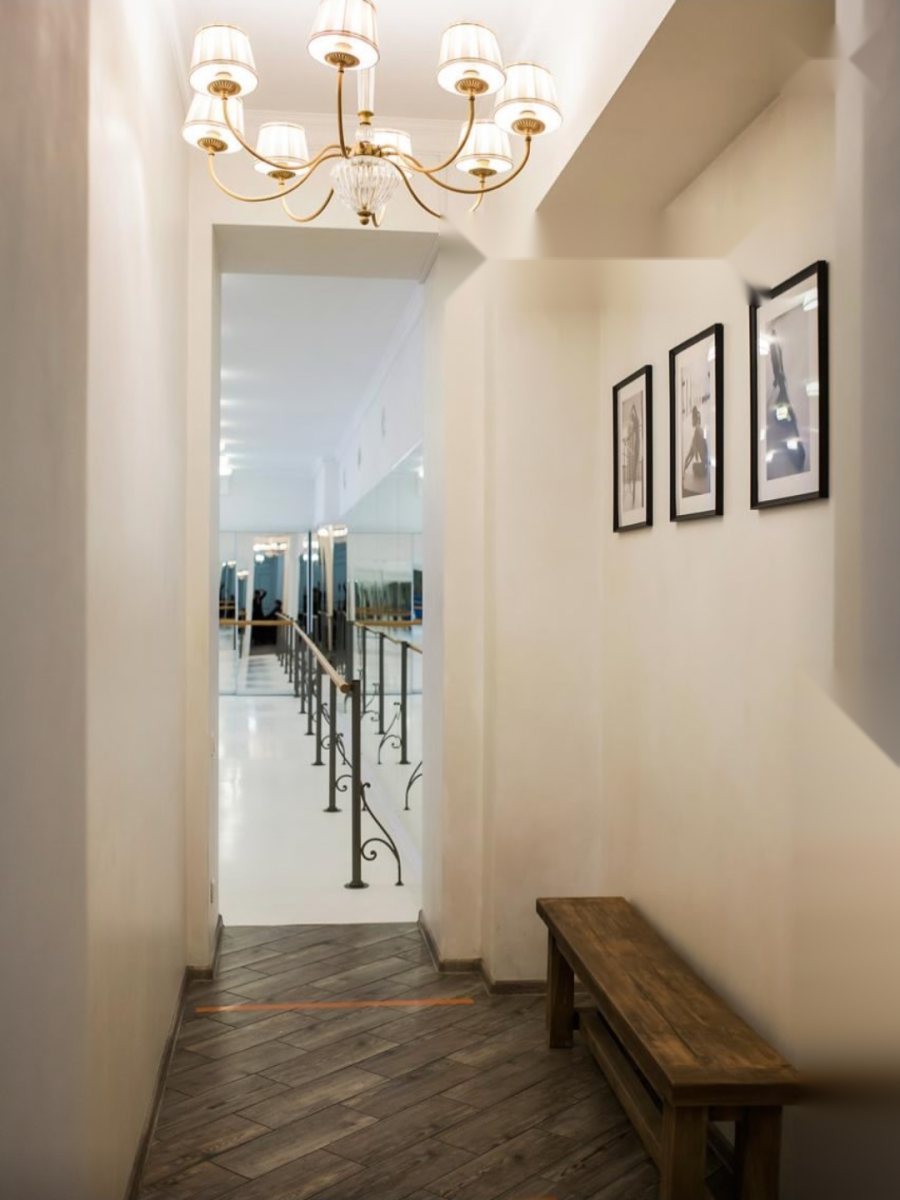
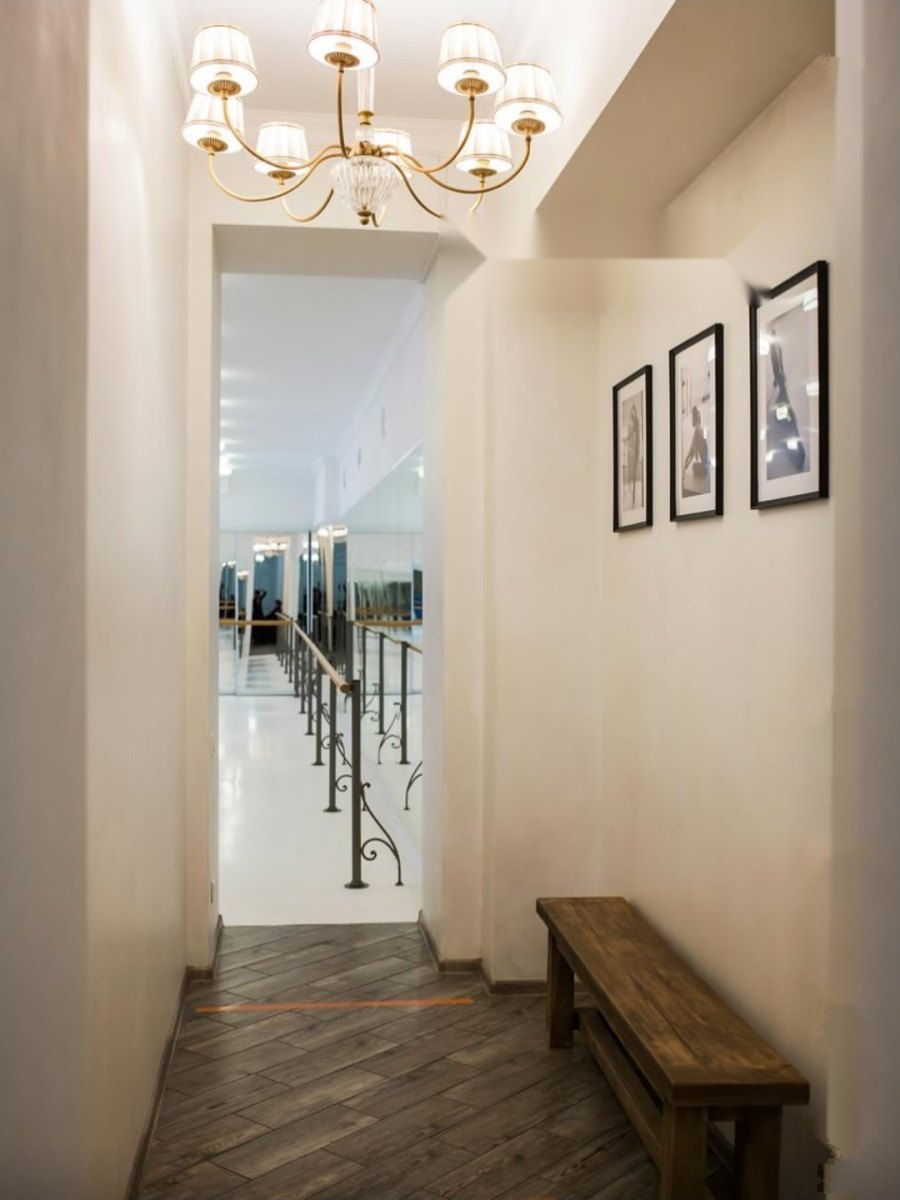
Better studio photos, drop the first-class block, smooth language switch
Photos. The right-hand strip of every picture had been repaired by
smearing a 120px-wide column, which left the sofa, the radiator, the
cabinet and the staircase handrail blurred. Only the icons themselves
and the counter are painted out now, and from patches of the surrounding
picture instead of by smoothing, so the radiator has its pipes again, the
sofa its folds and the handrail its line. 92–183 KB each.

«Что взять на первый урок» is removed whole: the section, its styles,
its entry in the reveal table and its English line. Nothing was left to
close the gap — the interior block now runs straight into «Свяжитесь с
нами».

Language switch. It used to reload the page with a flash of the old
text or a blank frame between. The page is now veiled in the site's own
background for 0.3 s, reloads already veiled, and the veil lifts over
0.5 s once the new language is in place; measured frame by frame, no
frame shows the new language uncovered. The veil is a pseudo-element on
the html element, not the body (an animation with fill-mode on the body
moves the fixed header), and a timer lifts it after 3 s in case the
script never runs.

Claude-Session: https://claude.ai/code/session_01XtSfA2PNjy1u6bukLUXjE1

Changed region(s): [[0.9022, 0.5858, 1.0, 1.0], [0.9022, 0.0308, 0.9644, 0.0617]]

diff --git a/i18n.js b/i18n.js
@@ -16,6 +16,7 @@
     'use strict';
 
     var KEY = 'isadora-lang';
+    var SWAP = 'isadora-lang-swap';
 
     var DICT = {
         /* ----- отзывы — говорим так, как говорил бы человек по-английски ----- */
@@ -73,7 +74,6 @@
         'Классика, современный танец и группы для детей': "Classical, contemporary and children’s groups",
         'Абонементы, разовые занятия и аренда залов': "Passes, drop-in classes and hall rental",
         'Подробнее': "See more",
-        'Что взять на первый урок': "What to bring to your first class",
         'События в Айседоре': "What’s on at Isadora",
         'Готовы начать свой путь в мире танца?': "Ready to start dancing?",
         'Свяжитесь с нами': "Get in touch",
@@ -463,7 +463,12 @@
         } catch (e) {}
 
         if (saved) {
-            location.reload();
+            /* Страница затягивается фоном сайта, потом перезагружается и так
+               же плавно открывается уже на другом языке: без этого язык менялся
+               рывком, с миганием белого экрана. */
+            try { sessionStorage.setItem(SWAP, '1'); } catch (e) {}
+            document.documentElement.classList.add('lang-swap');
+            setTimeout(function () { location.reload(); }, 320);
             return;
         }
 
@@ -493,6 +498,21 @@
        словам по-русски. */
     if (lang === 'en') apply();
     buttons();
+
+    /* Страницу открыл переключатель языка: она закрыта фоном (см. <head>).
+       Когда всё загрузилось и перевод встал на место, фон плавно уходит. */
+    var swapped = false;
+    try { swapped = sessionStorage.getItem(SWAP) === '1'; } catch (e) {}
+    if (swapped) {
+        var reveal = function () {
+            setTimeout(function () {
+                document.documentElement.classList.remove('lang-swap');
+                try { sessionStorage.removeItem(SWAP); } catch (e) {}
+            }, 160);
+        };
+        if (document.readyState === 'complete') reveal();
+        else window.addEventListener('load', reveal);
+    }
 
     /* script.js собирает текст заявки сам — ему нужен доступ к словарю */
     window.isadoraI18n = { lang: lang, t: translate };

diff --git a/index.html b/index.html
@@ -8,8 +8,8 @@
     <link rel="preconnect" href="https://fonts.googleapis.com">
     <link rel="preconnect" href="https://fonts.gstatic.com" crossorigin>
     <link href="https://fonts.googleapis.com/css2?family=Jost:wght@300;400;500;600&family=Marck+Script&family=PT+Serif:ital,wght@0,400;0,700;1,400;1,700&family=Playfair+Display:wght@400;500;600;700;800&display=swap" rel="stylesheet">
-    <link rel="stylesheet" href="styles.css?v=101">
-    <script>document.documentElement.classList.add('js-anim');</script>
+    <link rel="stylesheet" href="styles.css?v=103">
+    <script>document.documentElement.classList.add('js-anim');try{if(sessionStorage.getItem('isadora-lang-swap')){document.documentElement.classList.add('lang-swap');setTimeout(function(){document.documentElement.classList.remove('lang-swap')},3000)}}catch(e){}</script>
 </head>
 <body>
     <nav class="navbar">
@@ -152,17 +152,6 @@
         </div>
     </section>
 
-    <section class="first-class-section">
-        <div class="container">
-            <h2 class="section-title fade-in">Что взять на первый урок</h2>
-            <div class="first-class-grid">
-                <div class="first-class-card"></div>
-                <div class="first-class-card"></div>
-                <div class="first-class-card"></div>
-            </div>
-        </div>
-    </section>
-
     <section class="contact">
         <div class="container">
             <h2 class="section-title fade-in">Свяжитесь с нами</h2>
@@ -284,7 +273,7 @@
         </svg>
     </a>
 
-    <script src="i18n.js?v=101"></script>
-    <script src="script.js?v=101"></script>
+    <script src="i18n.js?v=103"></script>
+    <script src="script.js?v=103"></script>
 </body>
 </html>

diff --git a/styles.css b/styles.css
@@ -888,26 +888,6 @@ body.menu-open {
     background: var(--white);
 }
 
-/* «Что взять на первый урок»: раздел заведён, наполнение ждёт владельца */
-.first-class-section {
-    padding: 100px 0;
-    background: linear-gradient(175deg, #f5eee2 0%, var(--white) 45%, #e0d4c2 100%);
-}
-
-.first-class-grid {
-    display: grid;
-    grid-template-columns: repeat(auto-fit, minmax(220px, 1fr));
-    gap: 20px;
-    margin-top: 36px;
-}
-
-.first-class-card {
-    min-height: 150px;
-    border: 1px solid var(--sand-line);
-    border-radius: var(--r-box);
-    background: var(--card);
-}
-
 .interior-card {
     flex: 0 0 clamp(240px, 62vw, 360px);
     aspect-ratio: 2 / 3;
@@ -3188,4 +3168,24 @@ html.js-anim .hero-lead.in span {
         grid-template-columns: repeat(2, 1fr);
         gap: 12px;
     }
+}
+
+/* Смена языка: страница затягивается фоном сайта и так же плавно открывается.
+   Вешается на html, а не на body: у body любая анимация с fill-mode ломает
+   положение фиксированной шапки. */
+html::after {
+    content: '';
+    position: fixed;
+    inset: 0;
+    z-index: 5000;
+    background: var(--white);
+    opacity: 0;
+    pointer-events: none;
+    transition: opacity 0.55s ease;
+}
+
+html.lang-swap::after {
+    opacity: 1;
+    pointer-events: auto;
+    transition-duration: 0.3s;
 }

diff --git a/classes.html b/classes.html
@@ -8,8 +8,8 @@
     <link rel="preconnect" href="https://fonts.googleapis.com">
     <link rel="preconnect" href="https://fonts.gstatic.com" crossorigin>
     <link href="https://fonts.googleapis.com/css2?family=Jost:wght@300;400;500;600&family=Marck+Script&family=PT+Serif:ital,wght@0,400;0,700;1,400;1,700&family=Playfair+Display:wght@400;500;600;700;800&display=swap" rel="stylesheet">
-    <link rel="stylesheet" href="styles.css?v=101">
-    <script>document.documentElement.classList.add('js-anim');</script>
+    <link rel="stylesheet" href="styles.css?v=103">
+    <script>document.documentElement.classList.add('js-anim');try{if(sessionStorage.getItem('isadora-lang-swap')){document.documentElement.classList.add('lang-swap');setTimeout(function(){document.documentElement.classList.remove('lang-swap')},3000)}}catch(e){}</script>
 </head>
 <body class="page-prices">
     <nav class="navbar">
@@ -202,7 +202,7 @@
         </div>
     </section>
 
-    <script src="i18n.js?v=101"></script>
-    <script src="script.js?v=101"></script>
+    <script src="i18n.js?v=103"></script>
+    <script src="script.js?v=103"></script>
 </body>
 </html>

diff --git a/about.html b/about.html
@@ -8,8 +8,8 @@
     <link rel="preconnect" href="https://fonts.googleapis.com">
     <link rel="preconnect" href="https://fonts.gstatic.com" crossorigin>
     <link href="https://fonts.googleapis.com/css2?family=Jost:wght@300;400;500;600&family=Marck+Script&family=PT+Serif:ital,wght@0,400;0,700;1,400;1,700&family=Playfair+Display:wght@400;500;600;700;800&display=swap" rel="stylesheet">
-    <link rel="stylesheet" href="styles.css?v=101">
-    <script>document.documentElement.classList.add('js-anim');</script>
+    <link rel="stylesheet" href="styles.css?v=103">
+    <script>document.documentElement.classList.add('js-anim');try{if(sessionStorage.getItem('isadora-lang-swap')){document.documentElement.classList.add('lang-swap');setTimeout(function(){document.documentElement.classList.remove('lang-swap')},3000)}}catch(e){}</script>
 </head>
 <body>
     <nav class="navbar">
@@ -126,7 +126,7 @@
         </div>
     </section>
 
-    <script src="i18n.js?v=101"></script>
-    <script src="script.js?v=101"></script>
+    <script src="i18n.js?v=103"></script>
+    <script src="script.js?v=103"></script>
 </body>
 </html>

diff --git a/booking.html b/booking.html
@@ -8,8 +8,8 @@
     <link rel="preconnect" href="https://fonts.googleapis.com">
     <link rel="preconnect" href="https://fonts.gstatic.com" crossorigin>
     <link href="https://fonts.googleapis.com/css2?family=Jost:wght@300;400;500;600&family=Marck+Script&family=PT+Serif:ital,wght@0,400;0,700;1,400;1,700&family=Playfair+Display:wght@400;500;600;700;800&display=swap" rel="stylesheet">
-    <link rel="stylesheet" href="styles.css?v=101">
-    <script>document.documentElement.classList.add('js-anim');</script>
+    <link rel="stylesheet" href="styles.css?v=103">
+    <script>document.documentElement.classList.add('js-anim');try{if(sessionStorage.getItem('isadora-lang-swap')){document.documentElement.classList.add('lang-swap');setTimeout(function(){document.documentElement.classList.remove('lang-swap')},3000)}}catch(e){}</script>
 </head>
 <body>
     <nav class="navbar">
@@ -101,7 +101,7 @@
         </div>
     </section>
 
-    <script src="i18n.js?v=101"></script>
-    <script src="script.js?v=101"></script>
+    <script src="i18n.js?v=103"></script>
+    <script src="script.js?v=103"></script>
 </body>
 </html>

diff --git a/directions.html b/directions.html
@@ -8,8 +8,8 @@
     <link rel="preconnect" href="https://fonts.googleapis.com">
     <link rel="preconnect" href="https://fonts.gstatic.com" crossorigin>
     <link href="https://fonts.googleapis.com/css2?family=Jost:wght@300;400;500;600&family=Marck+Script&family=PT+Serif:ital,wght@0,400;0,700;1,400;1,700&family=Playfair+Display:wght@400;500;600;700;800&display=swap" rel="stylesheet">
-    <link rel="stylesheet" href="styles.css?v=101">
-    <script>document.documentElement.classList.add('js-anim');</script>
+    <link rel="stylesheet" href="styles.css?v=103">
+    <script>document.documentElement.classList.add('js-anim');try{if(sessionStorage.getItem('isadora-lang-swap')){document.documentElement.classList.add('lang-swap');setTimeout(function(){document.documentElement.classList.remove('lang-swap')},3000)}}catch(e){}</script>
 </head>
 <body>
     <nav class="navbar">
@@ -117,7 +117,7 @@
         </div>
     </section>
 
-    <script src="i18n.js?v=101"></script>
-    <script src="script.js?v=101"></script>
+    <script src="i18n.js?v=103"></script>
+    <script src="script.js?v=103"></script>
 </body>
 </html>

diff --git a/events.html b/events.html
@@ -8,8 +8,8 @@
     <link rel="preconnect" href="https://fonts.googleapis.com">
     <link rel="preconnect" href="https://fonts.gstatic.com" crossorigin>
     <link href="https://fonts.googleapis.com/css2?family=Jost:wght@300;400;500;600&family=Marck+Script&family=PT+Serif:ital,wght@0,400;0,700;1,400;1,700&family=Playfair+Display:wght@400;500;600;700;800&display=swap" rel="stylesheet">
-    <link rel="stylesheet" href="styles.css?v=101">
-    <script>document.documentElement.classList.add('js-anim');</script>
+    <link rel="stylesheet" href="styles.css?v=103">
+    <script>document.documentElement.classList.add('js-anim');try{if(sessionStorage.getItem('isadora-lang-swap')){document.documentElement.classList.add('lang-swap');setTimeout(function(){document.documentElement.classList.remove('lang-swap')},3000)}}catch(e){}</script>
 </head>
 <body>
     <nav class="navbar">
@@ -100,7 +100,7 @@
         </div>
     </section>
 
-    <script src="i18n.js?v=101"></script>
-    <script src="script.js?v=101"></script>
+    <script src="i18n.js?v=103"></script>
+    <script src="script.js?v=103"></script>
 </body>
 </html>

diff --git a/interior.html b/interior.html
@@ -8,8 +8,8 @@
     <link rel="preconnect" href="https://fonts.googleapis.com">
     <link rel="preconnect" href="https://fonts.gstatic.com" crossorigin>
     <link href="https://fonts.googleapis.com/css2?family=Jost:wght@300;400;500;600&family=Marck+Script&family=PT+Serif:ital,wght@0,400;0,700;1,400;1,700&family=Playfair+Display:wght@400;500;600;700;800&display=swap" rel="stylesheet">
-    <link rel="stylesheet" href="styles.css?v=101">
-    <script>document.documentElement.classList.add('js-anim');</script>
+    <link rel="stylesheet" href="styles.css?v=103">
+    <script>document.documentElement.classList.add('js-anim');try{if(sessionStorage.getItem('isadora-lang-swap')){document.documentElement.classList.add('lang-swap');setTimeout(function(){document.documentElement.classList.remove('lang-swap')},3000)}}catch(e){}</script>
 </head>
 <body>
     <nav class="navbar">
@@ -122,7 +122,7 @@
         </div>
     </section>
 
-    <script src="i18n.js?v=101"></script>
-    <script src="script.js?v=101"></script>
+    <script src="i18n.js?v=103"></script>
+    <script src="script.js?v=103"></script>
 </body>
 </html>

diff --git a/contacts.html b/contacts.html
@@ -8,8 +8,8 @@
     <link rel="preconnect" href="https://fonts.googleapis.com">
     <link rel="preconnect" href="https://fonts.gstatic.com" crossorigin>
     <link href="https://fonts.googleapis.com/css2?family=Jost:wght@300;400;500;600&family=Marck+Script&family=PT+Serif:ital,wght@0,400;0,700;1,400;1,700&family=Playfair+Display:wght@400;500;600;700;800&display=swap" rel="stylesheet">
-    <link rel="stylesheet" href="styles.css?v=101">
-    <script>document.documentElement.classList.add('js-anim');</script>
+    <link rel="stylesheet" href="styles.css?v=103">
+    <script>document.documentElement.classList.add('js-anim');try{if(sessionStorage.getItem('isadora-lang-swap')){document.documentElement.classList.add('lang-swap');setTimeout(function(){document.documentElement.classList.remove('lang-swap')},3000)}}catch(e){}</script>
 </head>
 <body>
     <nav class="navbar">
@@ -93,7 +93,7 @@
         </div>
     </section>
 
-    <script src="i18n.js?v=101"></script>
-    <script src="script.js?v=101"></script>
+    <script src="i18n.js?v=103"></script>
+    <script src="script.js?v=103"></script>
 </body>
 </html>

diff --git a/memberships.html b/memberships.html
@@ -8,8 +8,8 @@
     <link rel="preconnect" href="https://fonts.googleapis.com">
     <link rel="preconnect" href="https://fonts.gstatic.com" crossorigin>
     <link href="https://fonts.googleapis.com/css2?family=Jost:wght@300;400;500;600&family=Marck+Script&family=PT+Serif:ital,wght@0,400;0,700;1,400;1,700&family=Playfair+Display:wght@400;500;600;700;800&display=swap" rel="stylesheet">
-    <link rel="stylesheet" href="styles.css?v=101">
-    <script>document.documentElement.classList.add('js-anim');</script>
+    <link rel="stylesheet" href="styles.css?v=103">
+    <script>document.documentElement.classList.add('js-anim');try{if(sessionStorage.getItem('isadora-lang-swap')){document.documentElement.classList.add('lang-swap');setTimeout(function(){document.documentElement.classList.remove('lang-swap')},3000)}}catch(e){}</script>
 </head>
 <body>
     <nav class="navbar">
@@ -69,7 +69,7 @@
         </div>
     </section>
 
-    <script src="i18n.js?v=101"></script>
-    <script src="script.js?v=101"></script>
+    <script src="i18n.js?v=103"></script>
+    <script src="script.js?v=103"></script>
 </body>
 </html>

diff --git a/rent.html b/rent.html
@@ -8,8 +8,8 @@
     <link rel="preconnect" href="https://fonts.googleapis.com">
     <link rel="preconnect" href="https://fonts.gstatic.com" crossorigin>
     <link href="https://fonts.googleapis.com/css2?family=Jost:wght@300;400;500;600&family=Marck+Script&family=PT+Serif:ital,wght@0,400;0,700;1,400;1,700&family=Playfair+Display:wght@400;500;600;700;800&display=swap" rel="stylesheet">
-    <link rel="stylesheet" href="styles.css?v=101">
-    <script>document.documentElement.classList.add('js-anim');</script>
+    <link rel="stylesheet" href="styles.css?v=103">
+    <script>document.documentElement.classList.add('js-anim');try{if(sessionStorage.getItem('isadora-lang-swap')){document.documentElement.classList.add('lang-swap');setTimeout(function(){document.documentElement.classList.remove('lang-swap')},3000)}}catch(e){}</script>
 </head>
 <body>
     <nav class="navbar">
@@ -96,7 +96,7 @@
         </div>
     </section>
 
-    <script src="i18n.js?v=101"></script>
-    <script src="script.js?v=101"></script>
+    <script src="i18n.js?v=103"></script>
+    <script src="script.js?v=103"></script>
 </body>
 </html>
